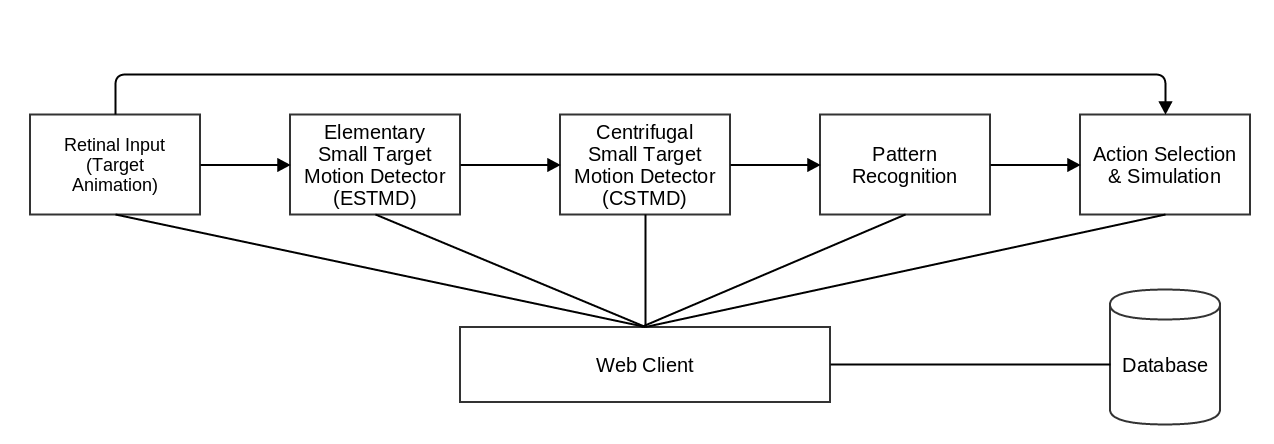
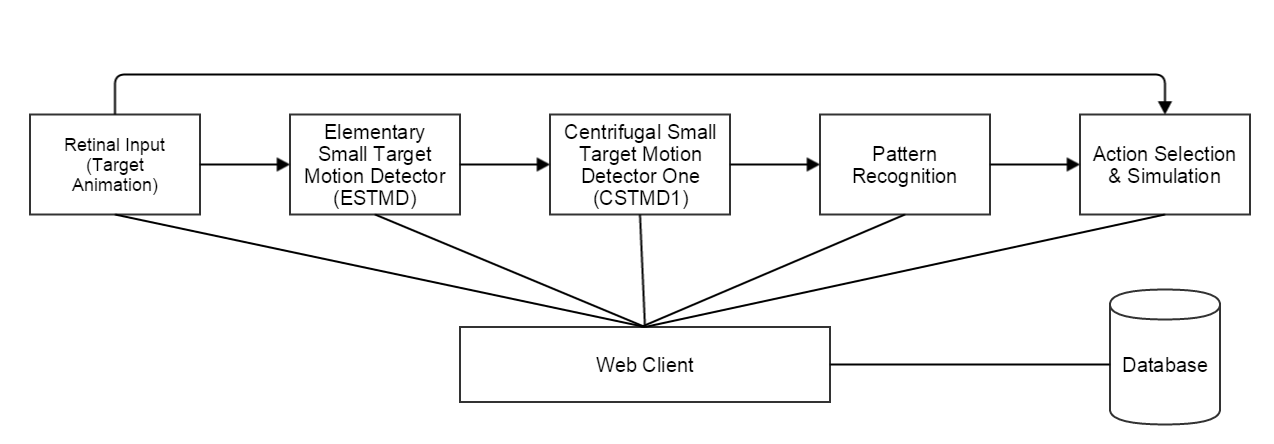
Fixing graphics. More changes.

diff --git a/reports/report3/0.FinalReport/final_report.tex b/reports/report3/0.FinalReport/final_report.tex
@@ -97,7 +97,7 @@ Our initial approach to establishing the requirements for this project was to br
 	
 	Goal-oriented capture enabled us to identify the minimum requirements for the completion of our project. As we progressed in the development of the system, we ran into some complications that motivated us to modify the certain aspects of our specification.
 	 
-\subsection{Challenges and Motivation for Updated Specifications}
+\subsection{Challenges and Finalisation of Specifications}
 In this section, there is a brief discussion of the challenges that were faced during the project and how they motivated the adjustment of the original specifications.
 
 	At the start of the project, our main objective was to create a working dragonfly target selection system. Key to the implementation of a biomimetic agent was the functioning of the CSTMD1 neuron, which had been previously modelled at Professor Shanahan's lab. Having previously displayed evidence of bistability, it was expected that the model of the CSTMD1 would be capable of selecting one target from many in the dragonfly's visual field by replicating the results of research done into real CSTMD1 neurons \cite{w13}. Despite the hard work that was put into addressing the issue, the challenge of handling the complex morphology of the CSTMD1 neuron made the task infeasible to be fully completed within the time frame of this project. Thus, it was moved to possible extensions and although significant progress was observed, it was only partially completed by the submission deadline.
@@ -168,7 +168,7 @@ Building on research done at Professor Murray Shanahan's laboratory on the CSTMD
 \subsection{User Interface}
 As we developed the aforementioned modules, we recognised the need to provide an user-friendly interface to our system. In order to maximise portability, the solution had to be lightweight and cross-platform. The most suitable architecture for this purpose consisted of a framework that could connect to each of our modules and provide a client that could be run on any modern browser.
 
-Our web client is designed to be a simple interface that allows for simulations for each of the modules to be run and automated, either separately or jointly. This graphical user interface interacts with each module's API and provides the functionality needed to save and access the results of every experiment. It also provides key metrics that can be crucial in understanding the performance of the system.
+Our web client is designed to be a simple interface that allows for simulations for each of the modules to be run and automated, either separately or jointly. This graphical user interface interacts with each module's API and provides the functionality needed to save and access the results of every experiment. It also provides key metrics that can be crucial in understanding the performance of the system. Figure 2 provides a graphical representation of the system as whole. 
 
 \subsection{Data Store}
 
@@ -176,17 +176,13 @@ Given the computationally expensive nature of our modules' simulations, a persis
 
 For our data store MongoDB \cite{mdb} was chosen. MongoDB provides a fast, scalable solution that does not require strict design decisions in advance. Considering in retrospect the changes and adaptations that had to take place during this project, we trust that MongoDB was a wise choice that contributed to the overall success of this project.
 
-
-\subsection{Design diagram}
-The following figure provides a graphical representation of the system as whole. 
-
 \begin{figure}[h]
 \centering
 \includegraphics[scale = 0.35]{designblockdiagram2}
 \caption{Project Structure Diagram.}
 \end{figure}
 
-\subsection{Programming language}
+\subsection{Programming Language}
 In order to maintain consistency throughout the project, all modules were programmed in the same language. This facilitated communication between the modules as well as their respective link to the web client. Additionally, it allowed us to run one test suite that comprehensively covered the whole project. We decided to use Python \cite{python} for this project given our team's experience with the language as well as its flexibility and ubiquity. Python includes libraries for efficient matrix manipulations that were key in most of the modules, as well as a vast number of neuroscience-specific modules that allowed us to develop our project without having to write potentially complex low-level functions. Furthermore, Python's matplotlib 2D plotting library provides a way for each module to generate production quality graphics that can be easily transmitted to an interactive user interface.
 
 
@@ -240,9 +236,9 @@ The Target Animation module is also required to produce the final output of the 
 
 \subsection{Elementary Small Target Motion Detector (ESTMD)}
 
-In our initial specification, one of our tasks was to connect the retina of our dragonfly to the CSTMD neurons. Having researched how this occurs in real dragonflies, we discovered that we would have to include a layer of neurons that preprocesses the input from the retina before passing it on to the CSTMDs, named elementary small target motion detectors (ESTMD) \cite{Wiederman2008}. While one of the purposes of the CSTMD seems to be to give the ability to select one target among many in the visual field \cite{w13}, the function of the ESTMDs seems to be that of identifying small moving targets, even against a cluttered, moving background \cite{Wiederman2008}.
+In our initial specification, one of our tasks was to connect the retina of our dragonfly to the CSTMD1 neurons. Having researched how this occurs in real dragonflies, we discovered that we would have to include a layer of neurons that preprocesses the input from the retina before passing it on to the CSTMD1s, named elementary small target motion detectors (ESTMD) \cite{Wiederman2008}. While one of the purposes of the CSTMD1 seems to be to give the ability to select one target among many in the visual field \cite{w13}, the function of the ESTMDs seems to be that of identifying small moving targets, even against a cluttered, moving background \cite{Wiederman2008}.
 
-	Our research revealed that the ESTMDs actually consist of several layers of neurons required to perform their function, namely photoreceptors, large monopolar cells (LMCs) and rectifying transient cells (RTCs) \cite{Wiederman2008}. It was immediately obvious to us that implementing all these stages in a multi-compartmental model (the method used for the CSTMD) would be extremely complicated and computationally expensive. Our initial thought was to attempt to use simplified point neuron models (such as Integrate-and-fire) to achieve the ESTMD function, but with a little more research we discovered that it would be possible to do it in a simpler and more computationally efficient way using a series of spatial and temporal transforms on the retina input \cite{Wiederman2008} \cite{hal11}. It is important to note that these transforms are intended to directly approximate the layers of biological neurons mentioned above - there are other techniques from computer vision that could be used for small target motion detection, but our priority is to represent the true function of the dragonfly's brain within realistic bounds of computational complexity. The overview of the model we implemented is summarised in Figure 1 and the details of the transforms were taken from \cite{hal11}. 
+	Our research revealed that the ESTMDs actually consist of several layers of neurons required to perform their function, namely photoreceptors, large monopolar cells (LMCs) and rectifying transient cells (RTCs) \cite{Wiederman2008}. It was immediately obvious to us that implementing all these stages in a multi-compartmental model (the method used for the CSTMD1) would be extremely complicated and computationally expensive. Our initial thought was to attempt to use simplified point neuron models (such as Integrate-and-fire) to achieve the ESTMD function, but with a little more research we discovered that it would be possible to do it in a simpler and more computationally efficient way using a series of spatial and temporal transforms on the retina input \cite{Wiederman2008} \cite{hal11}. It is important to note that these transforms are intended to directly approximate the layers of biological neurons mentioned above - there are other techniques from computer vision that could be used for small target motion detection, but our priority is to represent the true function of the dragonfly's brain within realistic bounds of computational complexity. The overview of the model we implemented is summarised in Figure 1 and the details of the transforms were taken from \cite{hal11}. 
 
 \begin{figure}[h]
 \centering
@@ -250,32 +246,33 @@ In our initial specification, one of our tasks was to connect the retina of our 
 \caption{\cite{Wiederman2008}}
 \end{figure}
 
-The first consideration we had to take was the input and output of the ESTMD module. The input would be a time series of two-dimensional arrays of pixel values from the retina and the output would need to be a time series of neuron spikes (spike trains) to provide input to the CSTMD. The spatial and temporal transforms we intended to use are directly applicable to an array of pixel values but the output of these transforms would also be an array of pixel values that would need to be transformed into spike trains. We decided the simplest and most efficient way of doing this would be to map each pixel value to a corresponding firing rate of a neuron, but this would be dealt with by the CSTMD module. In addition, to demonstrate the effect of the ESTMD module, we decided that it would be useful to provide a video of the output in order to ascertain visually that it is performing its expected function.
+The first consideration we had to take was the input and output of the ESTMD module. The input would be a time series of two-dimensional arrays of pixel values from the retina and the output would need to be a time series of neuron spikes (spike trains) to provide input to the CSTMD1. The spatial and temporal transforms we intended to use are directly applicable to an array of pixel values but the output of these transforms would also be an array of pixel values that would need to be transformed into spike trains. We decided the simplest and most efficient way of doing this would be to map each pixel value to a corresponding firing rate of a neuron, but this would be dealt with by the CSTMD1 module. In addition, to demonstrate the effect of the ESTMD module, we decided that it would be useful to provide a video of the output in order to ascertain visually that it is performing its expected function.
 
 	One significant challenge was understanding the transforms and implementing them in Python. For example, understanding the transforms required some background reading on z-transforms, which are the discrete equivalent of Laplace transforms, which are necessary as our system works in discrete time steps. For the translation of the model into Python, we used the Scipy.signal and openCV \cite{opencv} libraries extensively: Scipy was used to process the z-transforms (the temporal transformations) and openCV was used for the spatial transforms, such as Gaussian filtering. We also used openCV to convert videos into arrays of pixel values and vice versa.
+	
 \begin{figure}[H]
-\includegraphics[scale = 0.4]{input}
-\includegraphics[scale = 0.5]{processed}
-\caption{Snapshot of target animation and example of the corresponding ESTMD output. The target is circled in red in the original animation.}
+\includegraphics[scale = 0.37]{input}
+\includegraphics[scale = 0.4575]{processed}
+\caption{Snapshot of Target Animation and example of the corresponding ESTMD output. The target is circled in red in the original animation.}
 \end{figure}
 
 Once we had programmed the transforms, some tinkering with parameters was required to achieve the small target motion detection we were expecting. In any case, the user of the web client will have the capability of changing these parameters for their own model.
 
-\subsection{Centrifugal Small Target Motion Detector Neuron (CSTMD)}
+\subsection{Centrifugal Small Target Motion Detector One (CSTMD1)}
 
-The function of this module is to implement a multi-compartmental model of the actual CSTMD neuron that exists in dragonflies, with the hope that it will create an effect of selecting one target from many in the visual field. It takes input from the ESTMD and gives output to the Pattern Recognition module. The initial code was given to us by our supervisors, who had already shown that there is mutual inhibition of CSTMD1 neurons that could indicate target selection, but it was our job to connect it to the rest of the system and also, as a secondary goal, see if we could replicate the target selection effect observed in real dragonflies. The main issues in tackling this model were:
+The function of this module is to implement a multi-compartmental model of the actual CSTMD1 neuron that exists in dragonflies, with the hope that it will create an effect of selecting one target from many in the visual field. It takes input from the ESTMD and gives output to the Pattern Recognition module. The initial code was given to us by our supervisors, who had already shown that there is mutual inhibition of CSTMD1 neurons that could indicate target selection, but it was our job to connect it to the rest of the system and also, as a secondary goal, see if we could replicate the target selection effect observed in real dragonflies. The main issues in tackling this model were:
 \begin{enumerate}
-	\item Understanding he complicated nature of the morphologically-modelled CSTMD1.
+	\item Understanding the complicated nature of the morphologically-modelled CSTMD1.
 	\item Learning how to use the simulation environment of the CSTMD1 neurons (NEURON simulation environment).\cite{neuron}
 	\item Efficiently connecting this module with both the ESTMD and the Pattern Recognition module.
 	\item Generating key indicators to measure the performance and the plausibility of the module, in order to assist the user in assessing the function of this neuron.
 \end{enumerate}
 
-Given that the CSTMD1 is multi-compartmental model with several parameters that directly or indirectly affect its activity and effect to a given input, we needed to first fully understand the given model before proceeding with any further decisions. Thus, we performed several tests in order to be aware of all the plausible values that should be tried for each of the parameters.
+Given that the CSTMD1 is a multi-compartmental model with several parameters that directly or indirectly affect its activity and effect to a given input, we needed to first fully understand the given model before proceeding with any further decisions. Thus, we performed several tests in order to be aware of all the plausible values that should be tried for each of the parameters.
 
 Moreover, we had to consider what would be the best way to provide stimuli to the CSTMD1 neurons as an input from the ESTMD module. The NEURON simulation environment provides many classes as a connection to a model from an external input. After examining all the different possibilities we decided to use a leaky integrator (IntFire2() point process). We made this selection as it allows the modification of the total current as a parameter which is what we required in order to connect the two modules. IntFire2() also has a quite straightforward structure compared to other similar but considerably more complex point processes. 
 
-The ESTMD module provides a time series of neuron spikes which is essentially an array of values each of which corresponds to a spiking rate per retina pixel. Thus, we initiated one leaky integrator for each pixel and provided the spiking rate as its total current. We then connected these point processes to each of the CSTMD neurons used for the simulation. In order to make our model as much biologically plausible as possible, we added some randomized delays to the connections of the leaky integrators with the CSTMD1 neurons with the aim of ensuring that the desired inhibitory effect will be achieved while neurons are provided with some stimuli. We also applied a spatial Gaussian distribution to the weights of these connections, increasing the relative weights of the pixels in the centre of the visual field compared to those on the edges, as this is the case with real dragonflies \cite{w13}.
+The ESTMD module provides a time series of neuron spikes which is essentially an array of values each of which corresponds to a spiking rate per retina pixel. Thus, we initiated one leaky integrator for each pixel and provided the spiking rate as its total current. We then connected these point processes to each of the CSTMD1 neurons used for the simulation. In order to make our model as much biologically plausible as possible, we added some randomised delays to the connections of the leaky integrators with the CSTMD1 neurons with the aim of ensuring that the desired inhibitory effect will be achieved while neurons are provided with some stimuli. We also applied a spatial Gaussian distribution to the weights of these connections, increasing the relative weights of the pixels in the centre of the visual field compared to those on the edges, as this is the case with real dragonflies \cite{w13}.
 
 With regards to the output, since the Pattern Recognition module requires a considerable number of spike trains as an input, we had to find a way to connect the two modules without severely affecting the speed and performance of the CSTMD1 module. Hence, given the morphologically large axon of the CSTMD1 neuron \cite{geurten} we decided that, instead of using as many neurons as the inputs required by the Pattern Recognition module, to apply a large number of electrodes to different compartments of the neurons and thus provide the adequate number of spike trains without limiting the biological plausibility of our model.
 
@@ -284,10 +281,10 @@ After successfully connecting the different modules, our next goal was to define
 \begin{figure}[H]
 \centering
 \includegraphics[scale=0.5]{cstmd_neuron}
-\caption{Compartments recorded within a CSTDM1 neuron}
+\caption{Compartments recorded within a CSTDM1 neuron.}
 \end{figure}
 
-Figure 8 shows the spiking rate of different compartments of 5 CSTMD1 neurons as these were used in one of our simulations in the NEURON simulation environment. Figure 7 shows a visualisation of the location of these compartments. We can observe that most compartments of the 2nd and the 4th neuron, coloured in red and yellow respectively, show little or no spiking activity at the sections B, C and D although they seemed to have received similar stimuli to their counterpart neurons as shown by the spiking rates of their initial compartments in section A. Hence, an inhibitory effect is evident which results in neurons 1, 3 and 5 having high spike rates whereas neurons 2 and 4 show a blockade of activity.
+Figure 8 shows the spiking rate of different compartments of five CSTMD1 neurons as these were used in one of our simulations using the NEURON environment. Figure 7 shows a visualisation of the location of these compartments. We can observe that most compartments of the second and the fourth neuron, coloured in red and yellow respectively, show little or no spiking activity at the sections B, C and D although they seemed to have received similar stimuli to their counterpart neurons as shown by the spiking rates of their initial compartments in section A. Hence, an inhibitory effect is evident which results in neurons 1, 3 and 5 having high spike rates whereas neurons 2 and 4 show a blockade of activity.
 \newpage
 \begin{figure}[H]
 \centering
@@ -415,7 +412,7 @@ Finally, at each time step, the distance between dragonfly's focal point (which 
 
 It is possible to run the Action Selection module in training mode, where the weights can change, or in fixed mode where you give it trained, fixed weights to simply run a simulation. 
 
-The model was implemented in Python using a neuron simulator package called Brian 2 \cite{brian}. We used this as it is a flexible simulator and easier to use than NEURON (which was used for the CSTMD), since we are only modelling point neurons in this module, not a multi-compartmental model. 
+The model was implemented in Python using a neuron simulator package called Brian 2 \cite{brian}. We used this as it is a flexible simulator and easier to use than NEURON (which was used for the CSTMD1), since we are only modelling point neurons in this module, not a multi-compartmental model. 
 
 The output of the Action Selection module is twofold:
 \begin{enumerate}
@@ -622,8 +619,8 @@ Below is a condensed version of our final schedule. Sprints are two weeks long, 
     \begin{tabular}{p{12cm} c c}
     \textbf{Task} & \textbf{Priority} & \textbf{Sprint} \\ \hline
 	Implement visual pre-processing chain based on \cite{hal11}. & 1 & 1 \\
-	Connect output of pre-processing to CSTMD1. & 1 & 2\\
-	Replicate experiment in \cite{w13}. & 1 & 1 \\
+	Connect output of pre-processing to CSTMD1. & 1 & 4\\
+	Replicate experiment in \cite{w13}. & 3 & Incomplete \\
     \end{tabular}
 \end{center}
 
@@ -633,12 +630,10 @@ Below is a condensed version of our final schedule. Sprints are two weeks long, 
     \textbf{Task} & \textbf{Priority} & \textbf{Sprint} \\ \hline
 	Consolidate pattern recognition neuron as a Python class. & 2 & 2 \\
 	Consolidate pattern and noise sample generators as a Python class. & 2 & 2 \\
-	Design and implement unit tests for neuron model. & 2 & 4 \\
-	Design and implement unit tests for generators. & 2 & 1 \\
+	Design and implement unit tests for Pattern Recognition. & 2 & 4 \\
 	Add the ability to save and load samples for testing. & 3 & 1 \\
-	Make single pattern recognition neuron into a module. & 1 & 1 \\
-	Extend pattern recognition neuron to a model of competing patterns. & 1 & 1 \\
-	Analyse impact of varying noise on pattern recognition neurons. & 2 & 1 \\
+	Make single pattern recognition neuron into a module. & 1 & 3 \\
+	Extend pattern recognition neuron to a model of competing patterns. & 1 & 3 \\
     \end{tabular}
 \end{center}
 
@@ -646,7 +641,7 @@ Below is a condensed version of our final schedule. Sprints are two weeks long, 
 \begin{center}
     \begin{tabular}{p{12cm} c c}
     \textbf{Task} & \textbf{Priority} & \textbf{Sprint} \\ \hline
-	Get pattern recognition to detect short patterns from CSTMD output. & 1 & Incomplete \\
+	Get Pattern Recognition to detect short patterns from CSTMD1 output. & 1 & Incomplete \\
 	Layer pattern recognition neurons to recognise longer patterns. & 1 & 4\\
 	Create simple action selection mechanism. & 1 & 4 \\
     \end{tabular}
@@ -669,8 +664,8 @@ Below is a condensed version of our final schedule. Sprints are two weeks long, 
 \begin{center}
     \begin{tabular}{p{12cm} c c}
     \textbf{Task} & \textbf{Priority} & \textbf{Sprint} \\ \hline
-    Get CSTMD to select between targets. & 3 & Incomplete \\
-    Implement agent in a quad-copter drone. & 4 & Incomplete \\
+    Get CSTMD1 to select between targets. & 3 & Incomplete \\
+    Implement agent in a quad-copter drone. & 3 & Incomplete \\
     \end{tabular}
 \end{center}
 
@@ -724,7 +719,7 @@ As our final product, we have succeeded in creating a flexible, cohesive and por
 \begin{minipage}{0.5\textwidth}
 \centering
 \fbox{\includegraphics[scale = 0.15]{as_results}}
-\caption{Key metrics Action Selection.}
+\caption{Key metrics for Action Selection.}
 \end{minipage}
 \begin{minipage}{0.5\textwidth}
 \centering
@@ -838,10 +833,11 @@ this project and we have acquired invaluable insights from this collaboration.
 
 
 \clearpage
-
 \bibliography{final_report}{}
 \bibliographystyle{plain}
 \clearpage
+
+\begin{appendices}
 \appendix
 \section{Commit Statistics}
 
@@ -881,7 +877,7 @@ Over 158 days we performed 1212 commits, averaging 7.7 commits per day. Below yo
 \end{compactenum}
 
 \subsection*{Summary}
-This meeting was mainly focused on discussing the way the group would tackle administrative tasks. The decision about the split of the groups was finalised and initial tasks (mainly background reading) was assigned to the two groups. The members were split in a group of three (JCF, EG, PA) that would focus on the pattern recognition and a group of two (CK, IK) that would focus on the CSTMD and retina connection.
+This meeting was mainly focused on discussing the way the group would tackle administrative tasks. The decision about the split of the groups was finalised and initial tasks (mainly background reading) was assigned to the two groups. The members were split in a group of three (JCF, EG, PA) that would focus on the pattern recognition and a group of two (CK, IK) that would focus on the CSTMD1 and retina connection.
 
 \maketitle
 \section*{21 January 2015}
@@ -994,7 +990,7 @@ This meeting was mainly focused on the ESTMD neuron. The function of the mechani
 \end{compactenum}
 
 \subsection*{Summary}
-This meeting was mainly focused on the web client and the ESTMD neuron. A skeleton version of the web client was created by (JCF) and the next step would be to connect the completed Pattern Recognition module to the web client. Progress was reported on the ESTMD, however the intermediate mechanism revealed some unspotted issues with the CSTMD1 neuron that is responsible for selecting a single target if multiple stimuli are provided. The action selection group was divided into two sub-groups. EG had progressed with Target Animation and two members (CK, EG) would continue working on the ESTMD and the third member (IK) would focus on the CSTMD to analyse the erroneous behaviour and identify potential solutions. The structure of the second report (due on 13/03/2015) was also discussed.
+This meeting was mainly focused on the web client and the ESTMD neuron. A skeleton version of the web client was created by (JCF) and the next step would be to connect the completed Pattern Recognition module to the web client. Progress was reported on the ESTMD, however the intermediate mechanism revealed some unspotted issues with the CSTMD1 neuron that is responsible for selecting a single target if multiple stimuli are provided. The first group was divided into two sub-groups. EG had progressed with Target Animation and two members (CK, EG) would continue working on the ESTMD and the third member (IK) would focus on the CSTMD1 to analyse the erroneous behaviour and identify potential solutions. The structure of the second report (due on 13/03/2015) was also discussed.
 
 \maketitle
 \section*{11 March 2015}
@@ -1148,7 +1144,7 @@ Panagiotis Almpouras&  Pattern Recognition Module& 8.0 weeks  \\ \cline{1-3}
 &  Final Report&  1.5 weeks  \\ \cline{1-3}
 &  &    \\ \cline{1-3}
  Christos Kaplanis&  ESTMD Module&  5.5 weeks  \\ \cline{1-3}
-&  CSTMD module& 2.0 weeks    \\ \cline{1-3}
+&  CSTMD1 module& 2.0 weeks    \\ \cline{1-3}
 &  Action Selection Module&  3.5 weeks  \\ \cline{1-3}
 & Testing& 0.5 weeks \\ \cline{1-3}
 &  First Report&  0.5 weeks  \\ \cline{1-3}
@@ -1163,7 +1159,7 @@ Erik Grabljevec&  Pattern Recognition Module&  3.0 weeks  \\ \cline{1-3}
 &  Second Report&  0.5 weeks  \\ \cline{1-3}
 &  Final Report&  1.0 week  \\ \cline{1-3}
 &  &   \\ \cline{1-3}
-Ioannis Kasidakis& CSTMD Module& 9.0 weeks  \\ \cline{1-3}
+Ioannis Kasidakis& CSTMD1 Module& 9.0 weeks  \\ \cline{1-3}
 &  Web Client & 3.5 weeks    \\ \cline{1-3}
 & Testing& 0.5 weeks \\ \cline{1-3}
 &  First Report& 0.5 weeks     \\ \cline{1-3}
@@ -1197,7 +1193,7 @@ Ioannis Kasidakis& CSTMD Module& 9.0 weeks  \\ \cline{1-3}
 \end{minted}
 
 \subsubsection{Dragonfly Neuron Module}
-\subsubsection*{{\hspace{6mm}}CSTMD}
+\subsubsection*{{\hspace{6mm}}CSTMD1}
 \begin{minted}{bash}
     $ coverage run --branch test_cstmd.py
     ..
@@ -1313,6 +1309,6 @@ Ioannis Kasidakis& CSTMD Module& 9.0 weeks  \\ \cline{1-3}
 
     OK
 \end{minted}  
-
+\end{appendices}
 \end{document}
 
